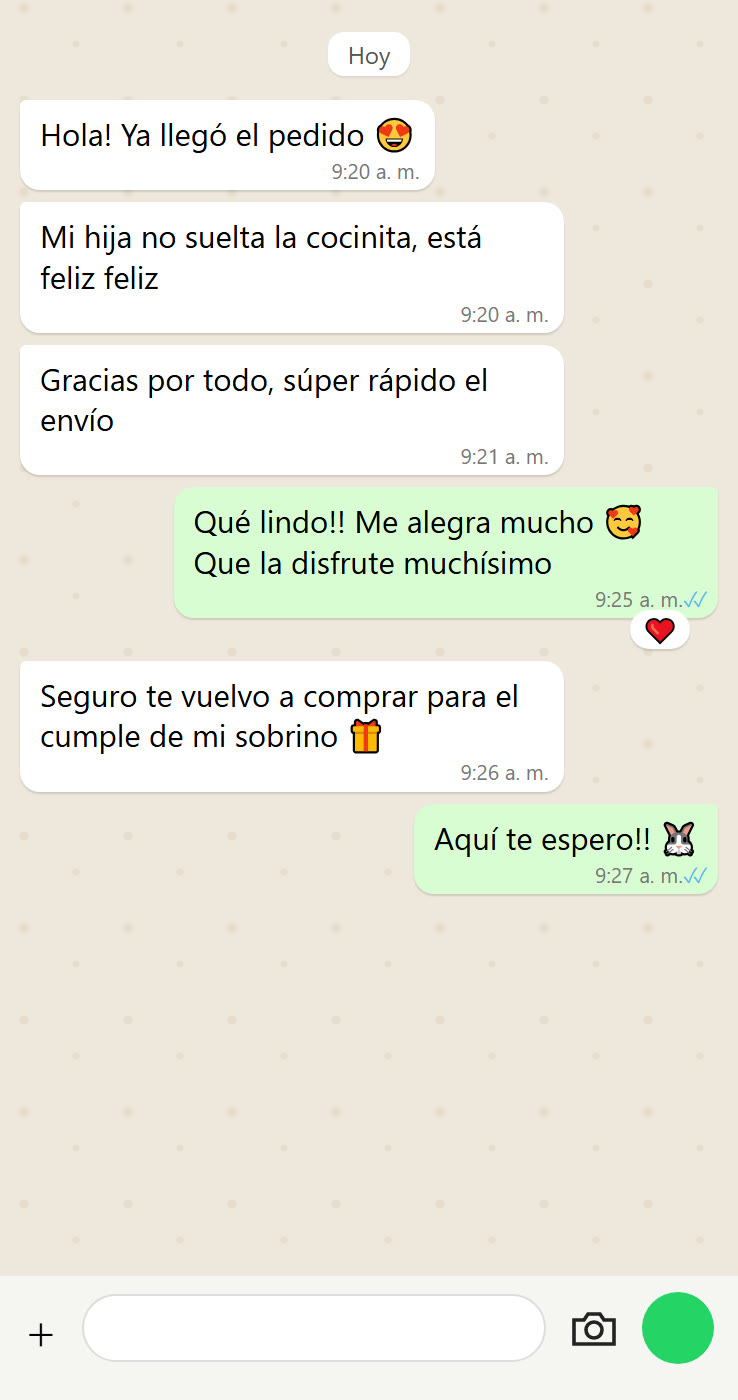
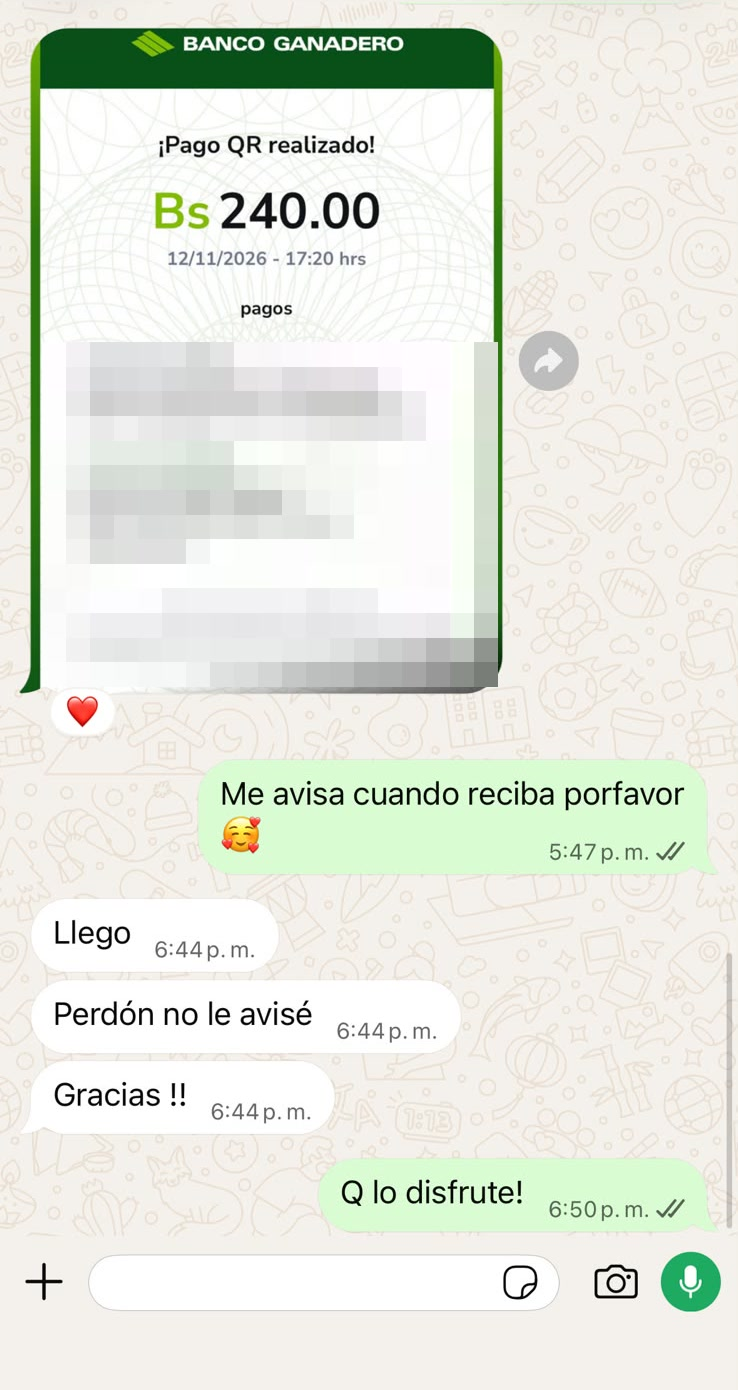
Testimonio real nuevo

diff --git a/index.html b/index.html
@@ -408,7 +408,7 @@ const CONFIG = {
   INSTAGRAM: "https://www.instagram.com/little.rabbit.bo",
   FACEBOOK: "https://www.facebook.com/Little.rabbit.bolivia",
   TIENDA: "Calle Sucre esquina Cobija, Centro, Santa Cruz",
-  // t1-t3 son reales; t4-t10 son DE EJEMPLO solo para que Brunella vea la sección: cambiarlos por reales antes de mostrar la web al público
+  // t1-t4 son reales; t5-t10 son DE EJEMPLO solo para que Brunella vea la sección: cambiarlos por reales antes de mostrar la web al público
   TESTIMONIOS: ["img/testimonios/t1.jpg", "img/testimonios/t4.jpg", "img/testimonios/t2.jpg", "img/testimonios/t5.jpg", "img/testimonios/t3.jpg", "img/testimonios/t6.jpg", "img/testimonios/t8.jpg", "img/testimonios/t7.jpg", "img/testimonios/t9.jpg", "img/testimonios/t10.jpg"]               // capturas de clientas (img/testimonios/t1.jpg…), con el nombre tapado. Vacío = la sección no se muestra
 };
 const CIUDADES = ["Santa Cruz","La Paz","Cochabamba","Sucre","Tarija","Oruro","Potosí","Beni","Pando","Otra"];
